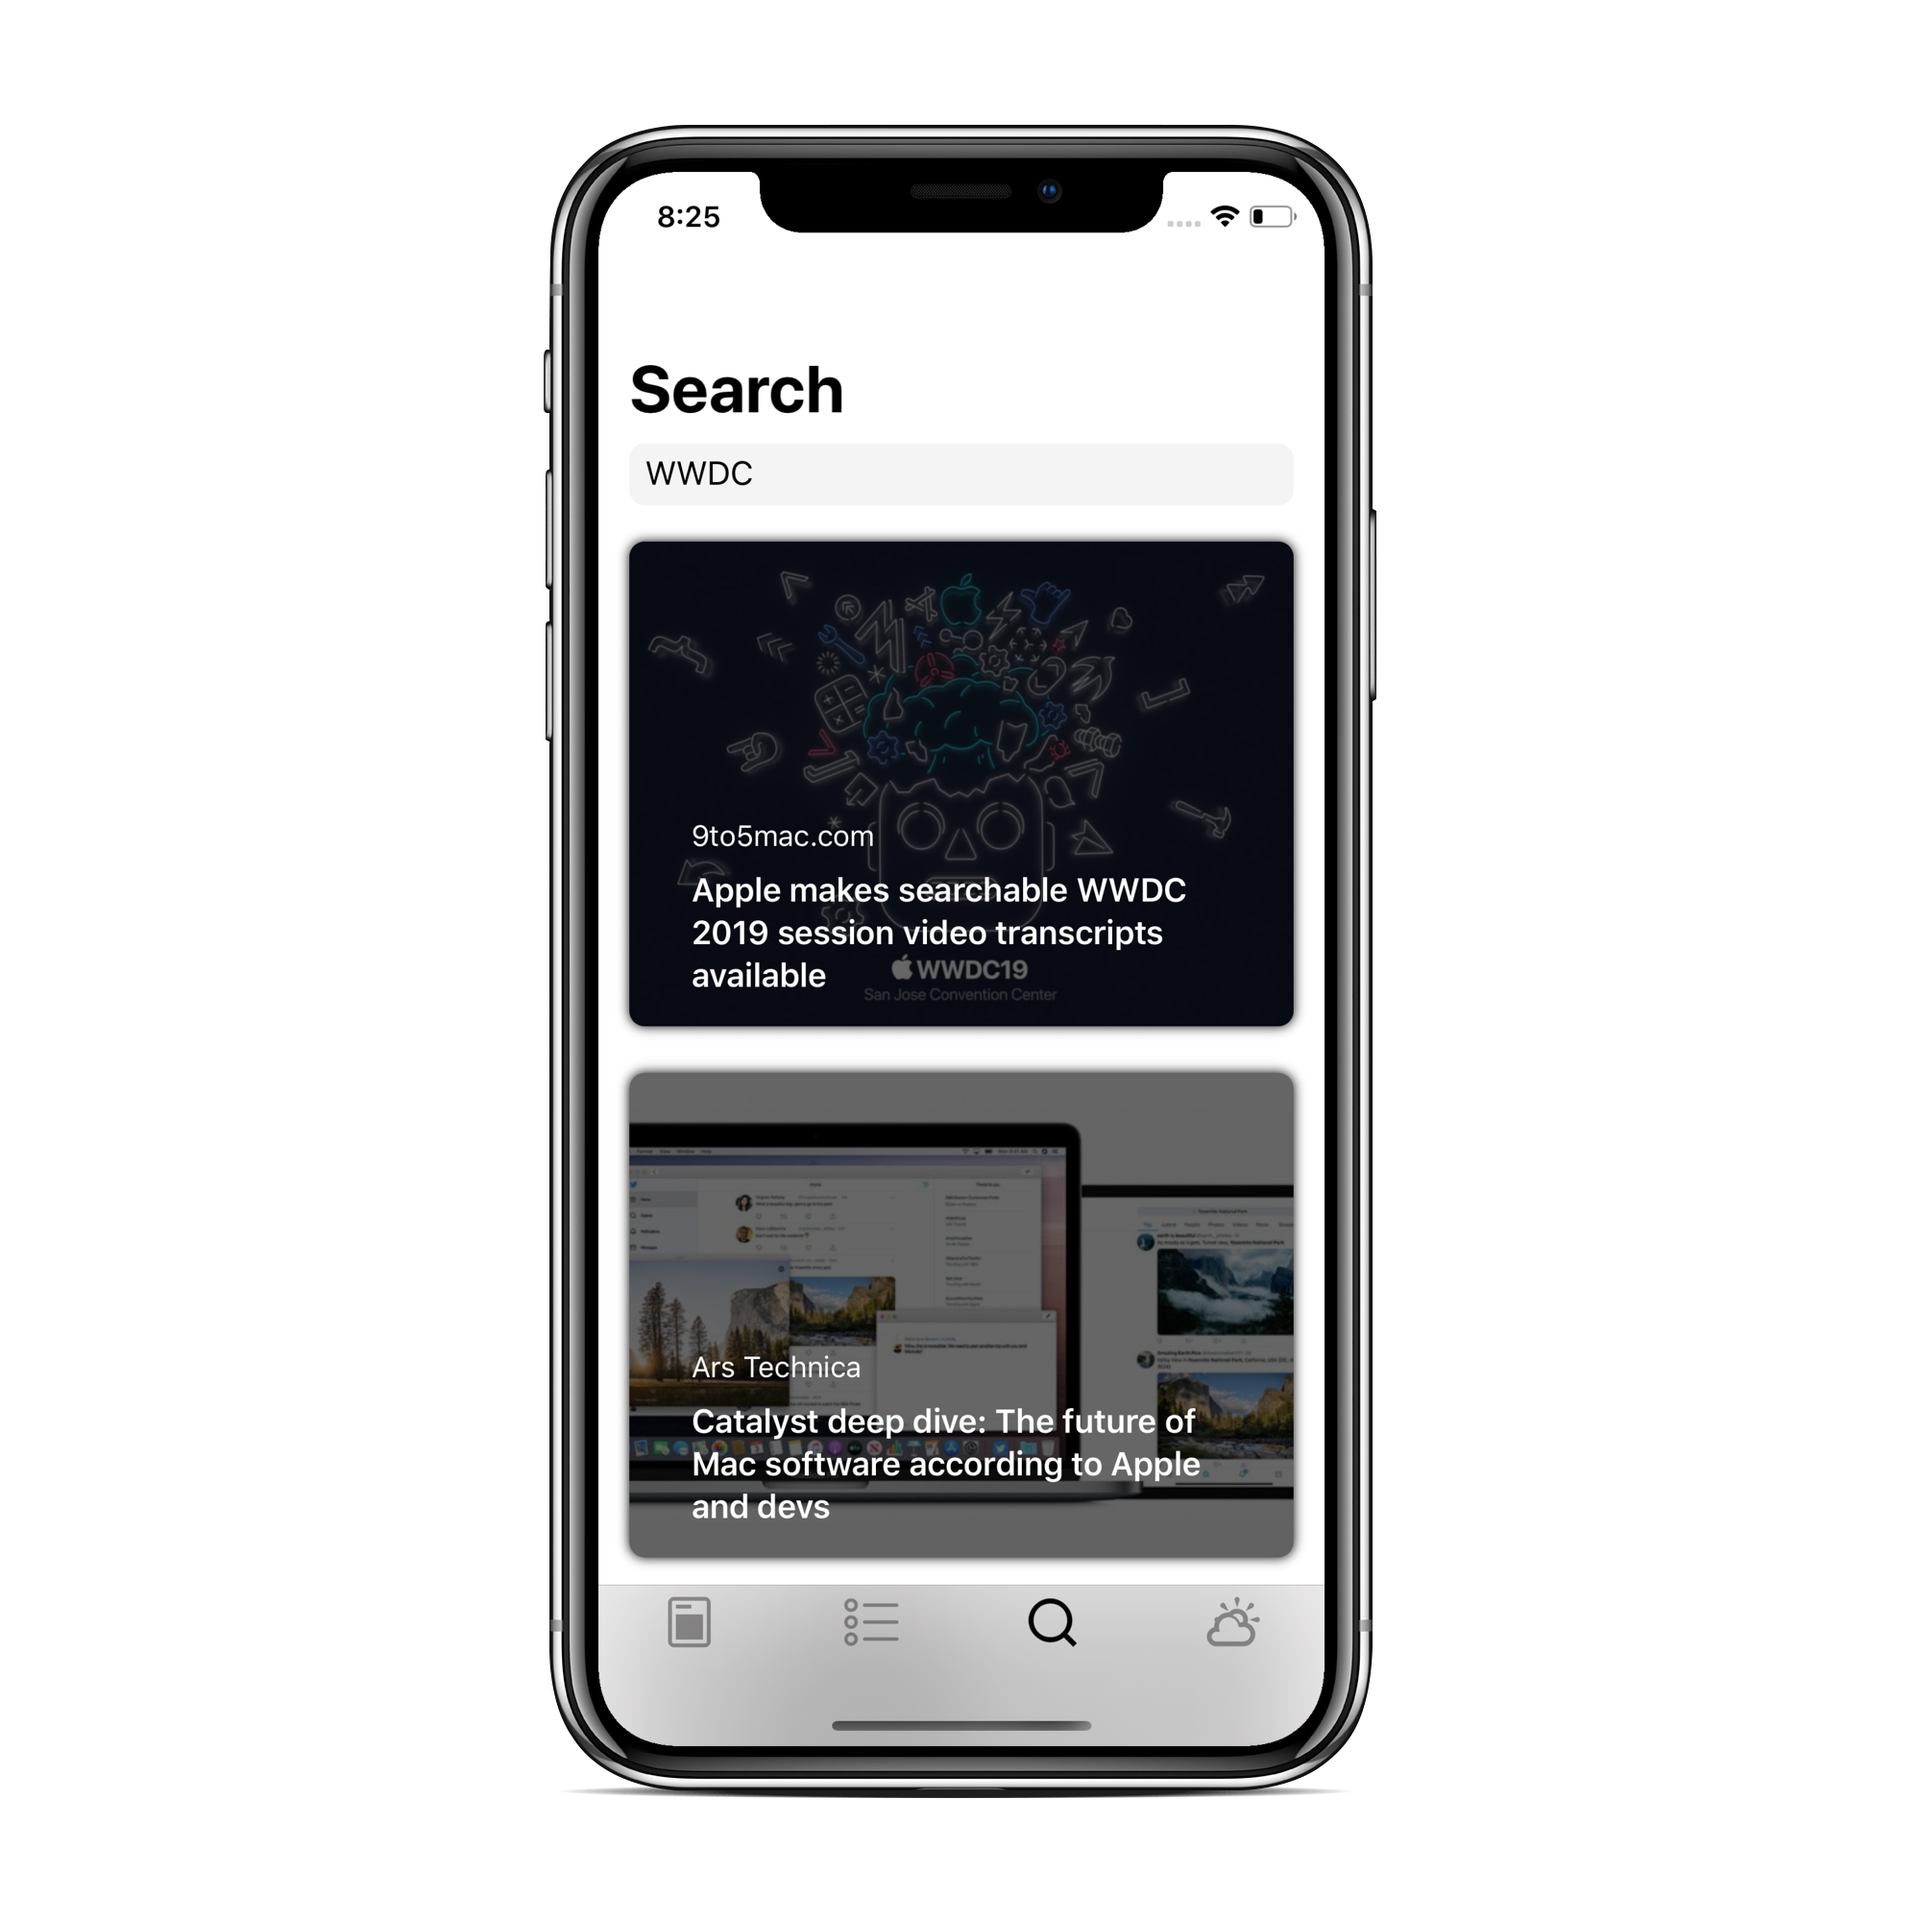
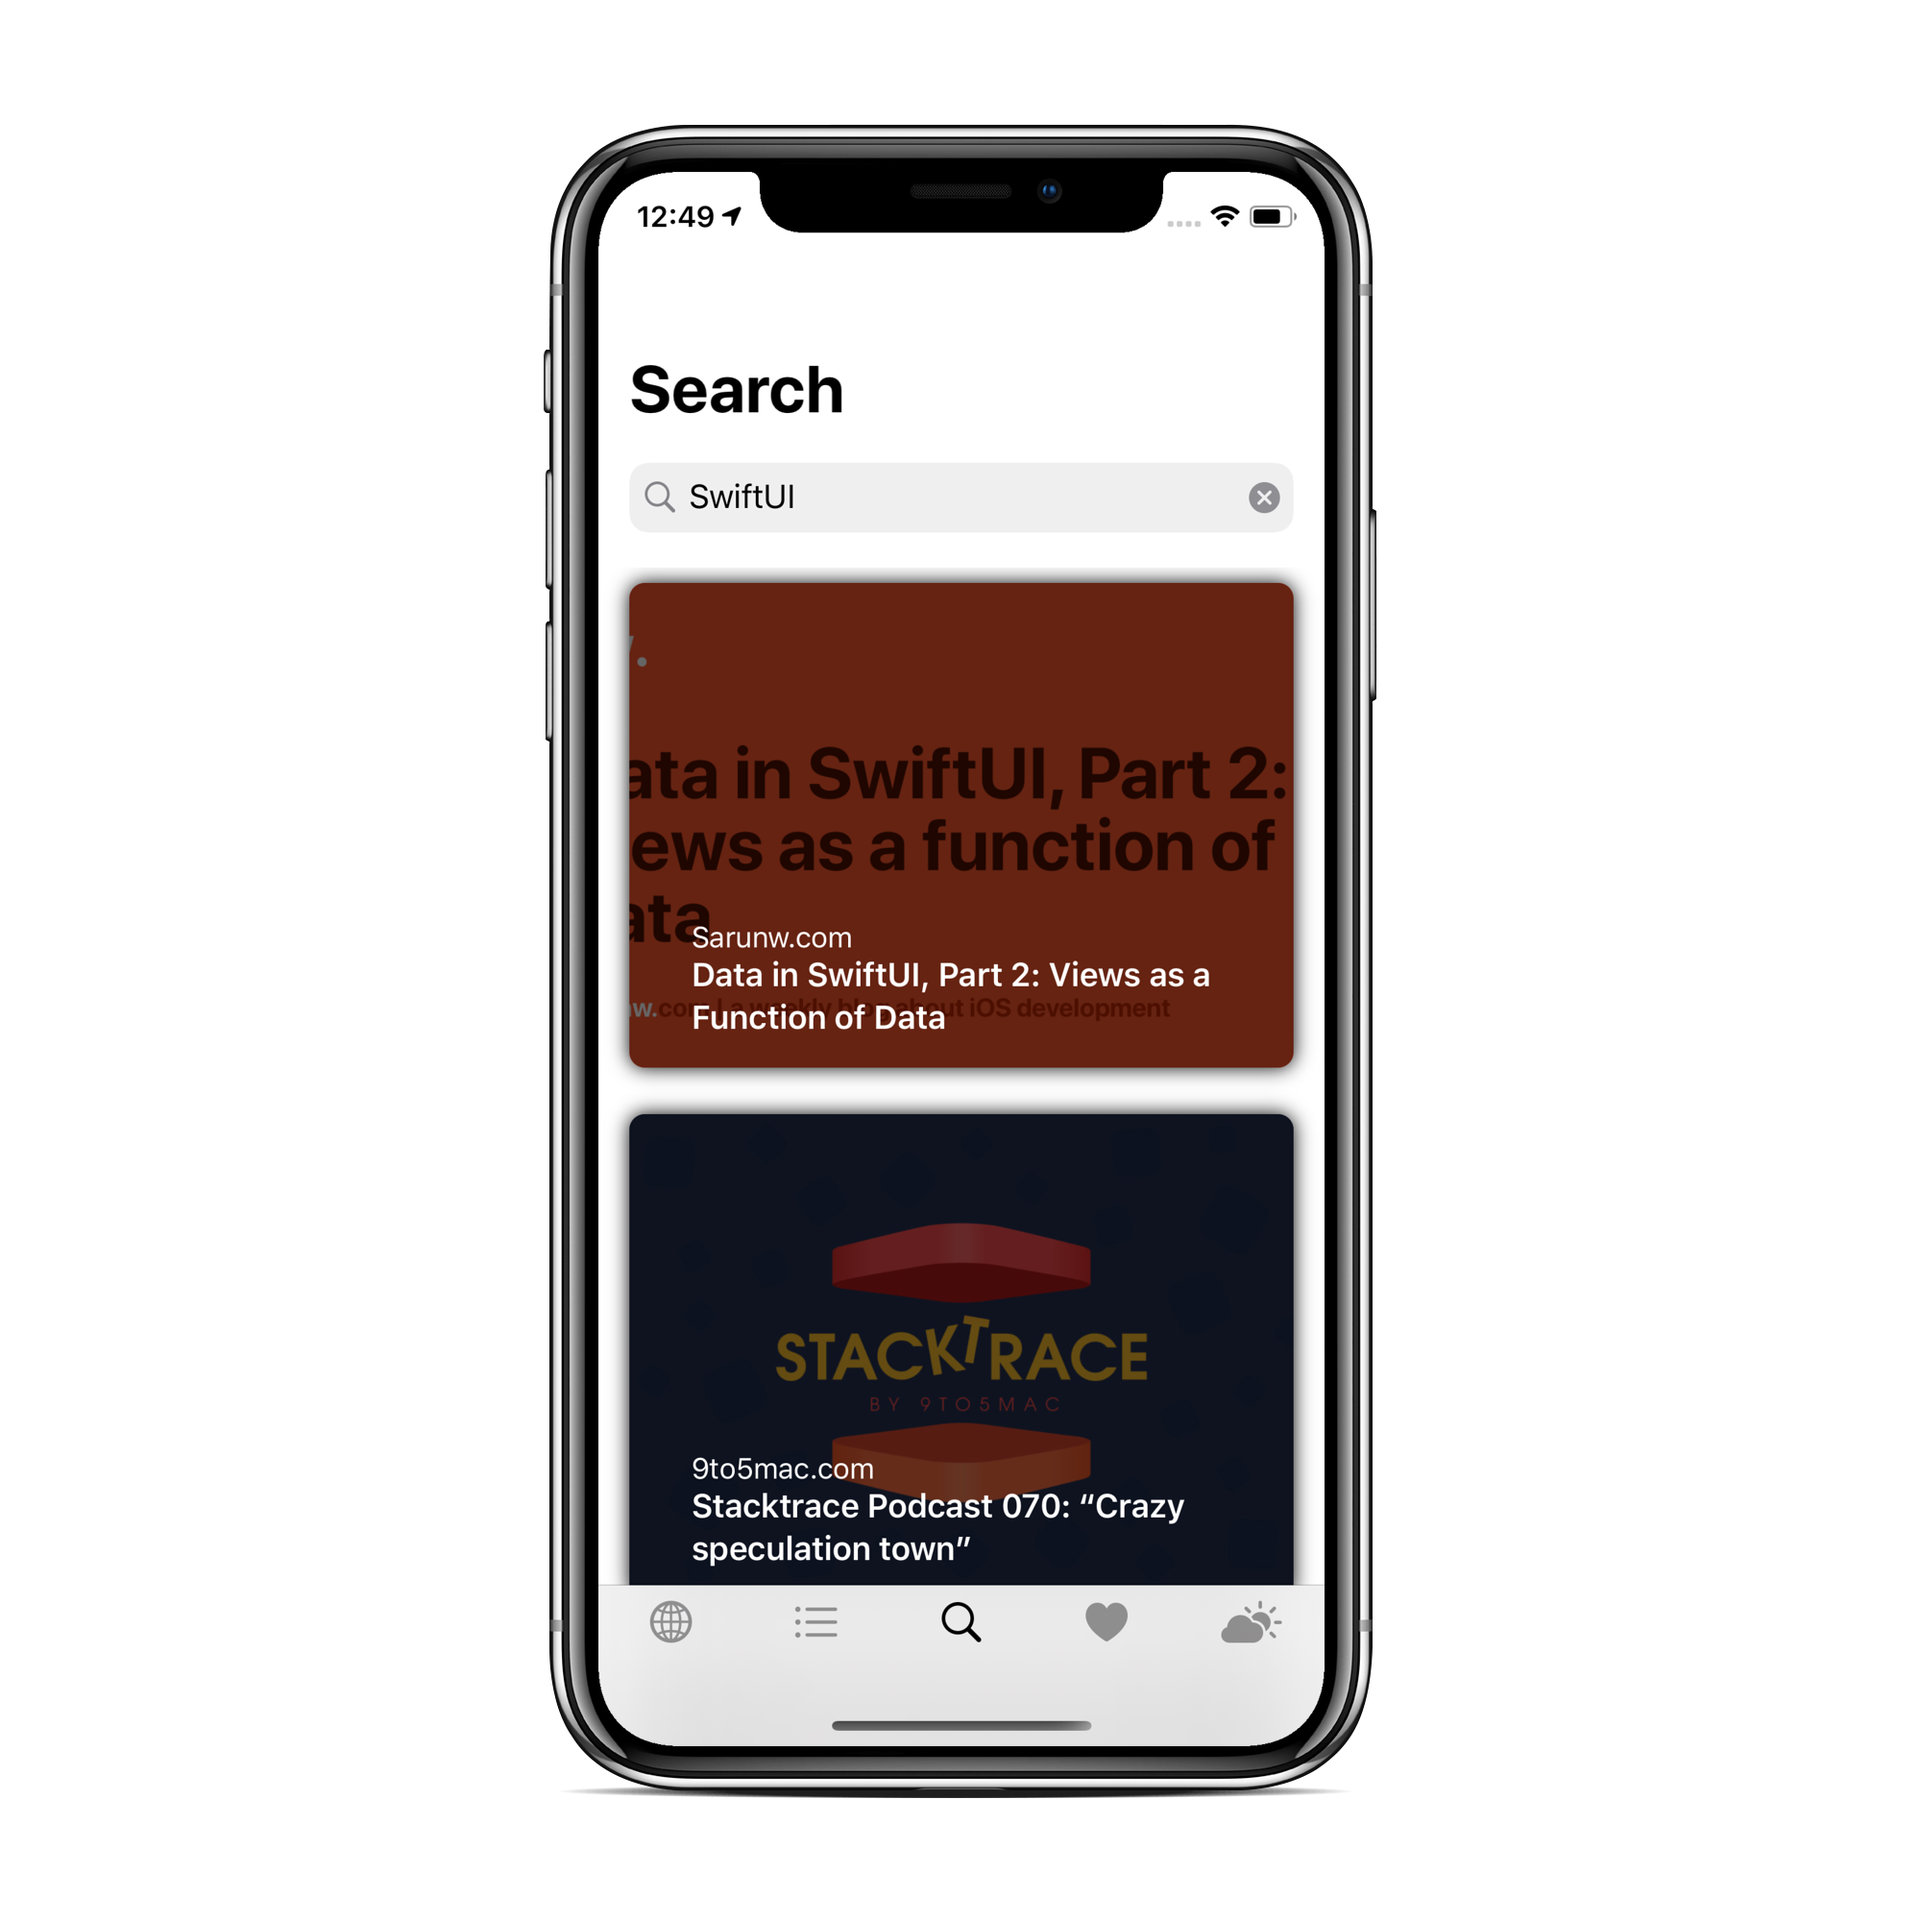
implementing UISearchBar

Changed region(s): [[0.31, 0.217, 0.682, 0.93], [0.341, 0.093, 0.372, 0.124]]

diff --git a/NewsApp With SwiftUI Framework/UI/Search/SearchBarView.swift b/NewsApp With SwiftUI Framework/UI/Search/SearchBarView.swift
@@ -1,0 +1,68 @@
+//
+//  SearchBarView.swift
+//  NewsApp With SwiftUI Framework
+//
+//  Created by Алексей Воронов on 16.02.2020.
+//  Copyright © 2020 Алексей Воронов. All rights reserved.
+//
+
+import SwiftUI
+import UIKit
+
+struct SearchBarView: UIViewRepresentable {
+    
+    @Binding var text: String
+    
+    func makeCoordinator() -> SearchBarView.Coordinator {
+        return Coordinator(text: $text)
+    }
+    
+    func makeUIView(context: UIViewRepresentableContext<SearchBarView>) -> UISearchBar {
+        let searchBar = UISearchBar()
+        searchBar.delegate = context.coordinator
+        searchBar.backgroundImage = UIImage()
+        searchBar.placeholder = Constants.placeholder
+        return searchBar
+    }
+    
+    func updateUIView(_ uiView: UISearchBar, context: UIViewRepresentableContext<SearchBarView>) {
+    }
+}
+
+extension SearchBarView {
+    
+    class Coordinator: NSObject, UISearchBarDelegate {
+
+        @Binding var text: String
+
+        init(text: Binding<String>) {
+            _text = text
+        }
+
+        func searchBarTextDidBeginEditing(_ searchBar: UISearchBar) {
+            searchBar.setShowsCancelButton(true, animated: true)
+        }
+        
+        func searchBarSearchButtonClicked(_ searchBar: UISearchBar) {
+            guard let searchBarText = searchBar.text else { return }
+            text = searchBarText
+            searchBar.resignFirstResponder()
+        }
+        
+        func searchBarTextDidEndEditing(_ searchBar: UISearchBar) {
+            searchBar.setShowsCancelButton(false, animated: true)
+        }
+        
+        func searchBarCancelButtonClicked(_ searchBar: UISearchBar) {
+            searchBar.resignFirstResponder()
+        }
+    }
+}
+
+private extension SearchBarView {
+    
+    struct Constants {
+        static let placeholder = "Search".localized()
+    }
+}
+

diff --git a/NewsApp With SwiftUI Framework/UI/Sources/ArticlesFromSource/ArticlesFromSourceView.swift b/NewsApp With SwiftUI Framework/UI/Sources/ArticlesFromSource/ArticlesFromSourceView.swift
@@ -11,7 +11,6 @@ import SwiftUI
 struct ArticlesFromSourceView: View {
     @ObservedObject var viewModel = ArticlesFromSourceViewModel()
     
-    @State private var isInfo: Bool = false
     @State var shouldPresent: Bool = false
     @State var articleURL: URL?
     
@@ -27,14 +26,6 @@ struct ArticlesFromSourceView: View {
             }
             .navigationBarItems(trailing:
                 HStack {
-                    if self.source.description != nil {
-                        Button(action: {
-                            self.isInfo.toggle()
-                        }) {
-                            Image(systemName: isInfo ? "info.circle.fill" : "info.circle")
-                                .imageScale(.large)
-                        }
-                    }
                     Button(
                         action: {
                             UIApplication.shared.open(self.source.url)
@@ -58,14 +49,13 @@ struct ArticlesFromSourceView: View {
             } else {
                 ScrollView(showsIndicators: false) {
                     VStack(alignment: .center) {
-                        if isInfo {
+                        if self.source.description != nil {
                             Text(verbatim: "About source:\n".localized() + (source.description ?? ""))
                                 .lineLimit(nil)
                                 .frame(width: UIScreen.main.bounds.width - 32,
                                        height: 150,
                                        alignment: .center)
                         }
-                        
                         ForEach(viewModel.articles, id: \.self) { article in
                             ArticleRow(article: article)
                             .animation(.spring())

diff --git a/NewsApp With SwiftUI Framework/UI/Search/SearchForArticlesView.swift b/NewsApp With SwiftUI Framework/UI/Search/SearchForArticlesView.swift
@@ -11,33 +11,16 @@ import SwiftUI
 struct SearchForArticlesView : View {
     @ObservedObject var viewModel = SearchForArticlesViewModel()
     
-    @State private var searchFilter: String = ""
-    
     var body: some View {
         NavigationView(content: {
             VStack {
-                searchBar
+                SearchBarView(text: $viewModel.searchText)
                     .padding([.leading, .trailing], 8)
-                    .frame(height: 32)
-                    .background(Color.gray.opacity(0.1))
-                    .cornerRadius(8)
-                    .padding([.leading, .trailing], 16)
-            
+                
                 ArticlesList(articles: viewModel.articles)
             }
             .navigationBarTitle(Text(Constants.title), displayMode: .large)
         })
-    }
-    
-    private var searchBar: some View {
-        TextField(Constants.searchbarPlaceholder,
-                  text: $searchFilter,
-                  onEditingChanged: { (isOpened) in
-                    if !isOpened {
-                        self.viewModel.searchForArticles(searchFilter: self.searchFilter)
-                    }
-                }
-        )
     }
 }
 
@@ -45,7 +28,6 @@ private extension SearchForArticlesView {
     
     struct Constants {
         static let title = "Search".localized()
-        static let searchbarPlaceholder = "Search articles...".localized()
     }
 }
 

diff --git a/NewsApp With SwiftUI Framework/UI/Search/SearchForArticlesViewModel.swift b/NewsApp With SwiftUI Framework/UI/Search/SearchForArticlesViewModel.swift
@@ -14,6 +14,11 @@ final class SearchForArticlesViewModel: ObservableObject {
     
     private var bag = Set<AnyCancellable>()
     
+    @Published var searchText: String = "" {
+        didSet {
+            searchForArticles(searchFilter: searchText)
+        }
+    }
     @Published private (set) var articles: Articles = []
     
     func searchForArticles(searchFilter: String) {
@@ -22,7 +27,9 @@ final class SearchForArticlesViewModel: ObservableObject {
             .map { $0.articles }
             .replaceError(with: [])
             .receive(on: RunLoop.main)
-            .assign(to: \.articles, on: self)
+            .sink(receiveValue: { [weak self] articles in
+                self?.articles = articles
+            })
             .store(in: &bag)
     }
 }

diff --git a/NewsApp With SwiftUI Framework/Tools/Container.swift b/NewsApp With SwiftUI Framework/Tools/Container.swift
@@ -18,8 +18,8 @@ class Container {
     }()
     
     /// News API key url: https://newsapi.org
-    static let newsAPIKey: String = "YOUR_NEWS_API_KEY"
+    static let newsAPIKey: String = "2dd517ab40234c28ac65a27b4845a4aa"
     
     /// Weather API key url: https://darksky.net
-    static let weatherAPIKey: String = "YOUR_WEATHER_API_KEY"
+    static let weatherAPIKey: String = "7aaa77c1ca5f9bb8a2db5169856d5af6"
 }

diff --git a/NewsApp With SwiftUI Framework/UI/ArticlesList.swift b/NewsApp With SwiftUI Framework/UI/ArticlesList.swift
@@ -12,7 +12,7 @@ struct ArticlesList : View {
     @State var shouldPresent: Bool = false
     @State var articleURL: URL?
     
-    let articles: [Article]
+    @State var articles: [Article]
     
     var body: some View {
         ScrollView {

diff --git a/README.md b/README.md
@@ -14,7 +14,7 @@
 ## Sources tab
 ![SourcesTab](https://github.com/AlexeyVoronov96/NewsApp-With-SwiftUI/blob/master/NewsApp%20With%20SwiftUI%20Framework/ScreenShots/Sources.png)
 ## Search for articles tab
-![SearchForArticlesTab](https://github.com/AlexeyVoronov96/NewsApp-With-SwiftUI/blob/master/NewsApp%20With%20SwiftUI%20Framework/ScreenShots/Search.png)
+![SearchForArticlesTab](https://github.com/AlexeyVoronov96/NewsApp-With-SwiftUI/blob/master/NewsApp%20With%20SwiftUI%20Framework/ScreenShots/SearchTab.png)
 ## Favorites tab
 ![FavoritesTab](https://github.com/AlexeyVoronov96/NewsApp-With-SwiftUI/blob/master/NewsApp%20With%20SwiftUI%20Framework/ScreenShots/FavoritesTab.png)
 ## Current weather tab
